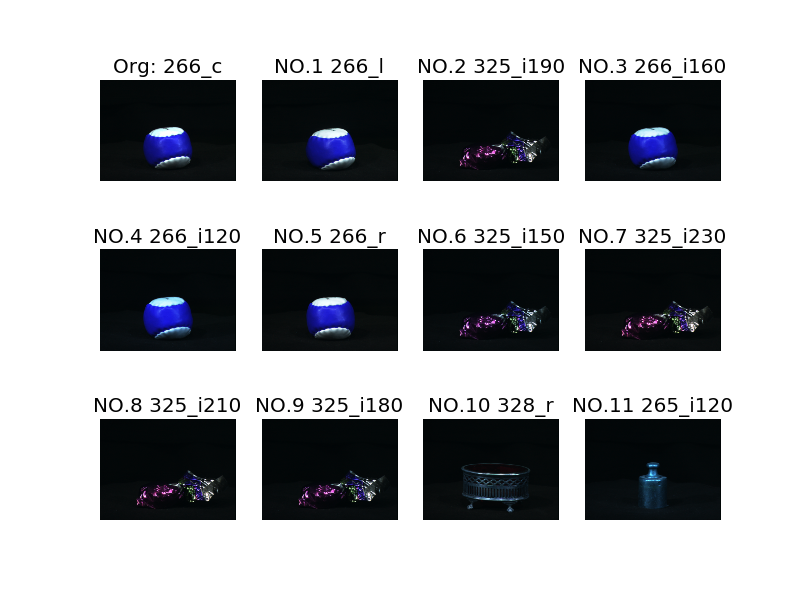
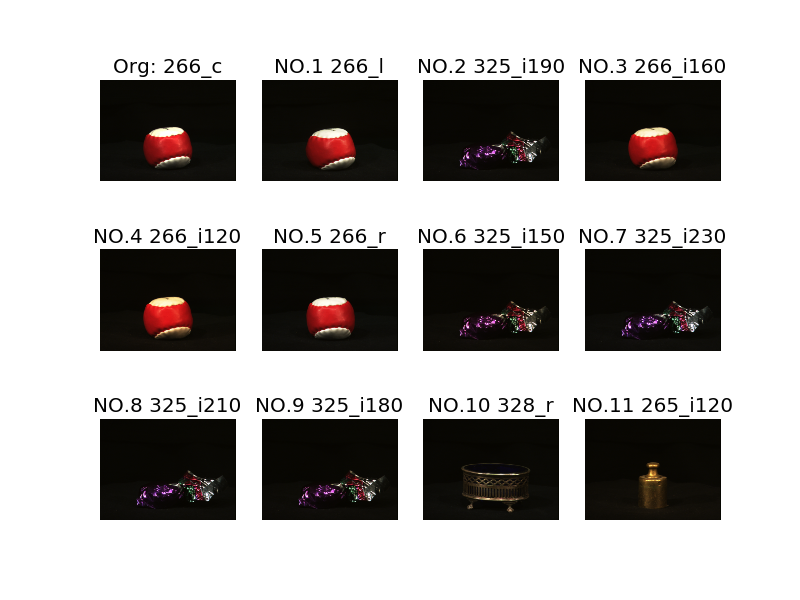
add commentaire and result image

diff --git a/utils.py b/utils.py
@@ -23,7 +23,7 @@ def getImageListFromDir(img_dir, filetype='png'):
     :return: list of images, list
     """
     img_dir = img_dir + '/*/*/' + '*.' + filetype
-    l = sorted(glob.glob(img_dir))  # ./merged_train/999/rotation/999_r.png
+    l = sorted(glob.glob(img_dir))  
     return l
 
 
@@ -35,7 +35,7 @@ def getHistListFromDir(img_dir):
     """
     filetype = 'npy'
     img_dir = img_dir + '/*.' + filetype
-    l = sorted(glob.glob(img_dir))  # ./merged_train/999/rotation/999_r.png
+    l = sorted(glob.glob(img_dir))
     return l
 
 
@@ -49,7 +49,7 @@ def img_generator(img_list):
     while len(img_list) > 0:
         f1 = img_list.pop(0)
         print "read img: ", f1.split('/')[-1]
-        img = cv2.imread(f1, 0) # 0 is needed for brief discriptor
+        img = cv2.imread(f1, 0) 
         yield (img, f1.split('/')[-1])
 
 
@@ -102,18 +102,13 @@ def SIFT_descriptor_generator(data, nfeatures):
     :param feature_point_quantity: MAX feature point quantity
     :return: keypoint_list, descriptor_list
     """
-    """
-    gray = cv2.cvtColor(data, cv2.COLOR_BGR2GRAY)
-
-    gray = np.float32(gray)
-    dst = cv2.cornerHarris(gray, 2, 3, 0.04)
-    
-    """
+    # Initiate SIFT detector
     sift = cv2.xfeatures2d.SIFT_create(nfeatures=nfeatures)
+    
+    # compute the descriptors with SIFT
     kps, descs = sift.detectAndCompute(data,None)
     if descs is not None:
         pass
-        #print "des shape", descs.shape
     return kps, descs
 
 # generator descriptors
@@ -131,17 +126,15 @@ def generator_descriptor(fileaddr, save_addr, nfeatures, desp_type):
         print 'create ' + save_addr
     if fileaddr[-1] != '/':
         fileaddr += '/'
-    # fileList = os.listdir(fileaddr)
+
     fileList = glob.glob(fileaddr + "*/*/*.png")
-    #print fileList
     for file in fileList:
         if '.png' in file:
             print file
             filename_des = file.split('/')[-1].split('.')[0]
             data = cv2.imread(file, 0)
-
-            # todo: add new detectors here !
-
+            
+            # choose descriptor algo
             if desp_type == "orb":
                 kp, des = orb_descriptor_generator(data, nfeatures)
 
@@ -164,10 +157,8 @@ def generator_descriptor(fileaddr, save_addr, nfeatures, desp_type):
                 print 'create ' + subdir_addr
             # creat file to store descriptor
             np.save(subdir_addr + '/' + filename_des + '_' + desp_type, des)
-            # np.save(save_addr+'/'+filename_des+'_kp', kp)
 
-
-# generator hists (global descriptors) from data (local descriptors or image)
+# generator histogram (global descriptors) from data (local descriptors or image)
 def generateHist(model, data, data_type, nfeatures, decpt_type):
     """
     :param model: k-means model trained by descriptors in database.
@@ -207,9 +198,6 @@ def generateHist(model, data, data_type, nfeatures, decpt_type):
         if des is None:  # if orb cannot get any keypoints
             return res
         des = np.asarray(des, dtype=np.float32)
-        #des_float = []
-        #for i in range(len(des)):  # convert des from int to float to avoid type warning
-        #    des_float.append(map(float, des[i]))
         label = model.predict(des)
         for value in label:
             res[0, value] += 1.0
@@ -236,14 +224,12 @@ def searchFromBase(base_dir, target, model, nfeatures, descriptor_type, mode, cl
         imgs_addr = getImageListFromDir(base_dir)
     dist = {}
     target_hist = generateHist(model, target, 'image', nfeatures, descriptor_type).astype(np.float32)
-    # print np.sum(target_hist)
     
     # calculate distance between target hist and base hists
     for idx, img_addr in enumerate(imgs_addr):
         img_gs = []
         hist = []
         if has_hist == False:
-            #print img_addr
             img_gs = cv2.imread(img_addr, '0')
             hist = generateHist(model, img_gs, 'image', descriptor_type)
         else:
@@ -254,19 +240,23 @@ def searchFromBase(base_dir, target, model, nfeatures, descriptor_type, mode, cl
     sorted_d = OrderedDict(sorted(dist.items(), key=lambda x: x[1]))
     dictlist = []
     for key, value in sorted_d.items():
-        temp = [key, value] # [index, distance]
+        temp = [key, value] # correspond to [index, distance]
         class_actual = imgs_addr[key].split('/')[-1].split('_')[0]
         if mode != 1:
             if class_actual == str(class_id):
                 dictlist.append(temp)
                 filename = imgs_addr[key].split('/')[-1]
-                #print filename,value
         else:
             dictlist.append(temp)
     return dictlist, imgs_addr
 
 
 def get_class_image_list(target_dir, class_name):
+    """
+    :param target_dir: address to search image
+    :param class_name: target class name image
+    :return: a list of image addr of the same class
+    """    
     if target_dir[-1] != '/':
         target_dir += '/'
     l = glob.glob(target_dir + class_name + '/*/*')
@@ -274,6 +264,14 @@ def get_class_image_list(target_dir, class_name):
 
 
 def generate_random_image_list(image_list, class_name, class_start, class_num, num):
+    """
+    :param target_dir: address to search image
+    :param class_name: target class name image
+    :param class_start: class of image in the test set start from (ex. 251)
+    :param class_num: quantity of class in the test set (ex. 50)
+    :param num: the quantity of the image in the output list(ex. 5)
+    :return: a list of image addr of the randomly different classes
+    """    
     class_name = str(class_name)
     image_list_temp = image_list[:]  # to store different image classes
     same_class_image_count = 0
@@ -299,7 +297,8 @@ def generate_random_image_list(image_list, class_name, class_start, class_num, n
     for item in rand_file_num_list:
         rand_image_list.append(image_list_temp[int(item) - class_start])    
     return rand_image_list, same_class_image_count
-
+    
+# init the csv file to record the score of the test images
 def csv_init(csv_file_path, kmeans, nfeatures, class_name, class_width, descriptor_type):
     csv_file_name = csv_file_path + '/kmeans_' + str(kmeans.get_params()['n_clusters']) + '_nf_' + str(nfeatures) + descriptor_type + '_class_' + class_name + '.csv'
     if os.path.exists(csv_file_path) == False:
@@ -312,11 +311,12 @@ def csv_init(csv_file_path, kmeans, nfeatures, class_name, class_width, descript
     writer.writerow(file_header)
     return csvfile, writer
 
-
+# deinit the csv file
 def csv_deinit(csvfile, writer, score_global):
     writer.writerow(['Conclusion'] + score_global[:-1] + ["-"] + [score_global[-1]])
     csvfile.close()    
 
+ # generate Prediction/Recall image
 def pr_image_generate(pr_list,descriptor_type,kmeans, nfeatures):
     """
     :param pr_list: a list of lists (filename, label, score)
@@ -374,9 +374,11 @@ def pr_csv_generation(target_dir, sub_hist_addr, kmeans, nfeatures, descriptor_t
 
     for class_name in class_list: # iteration for each class
         pr_list = []
-        class_image_list = get_class_image_list(target_dir, class_name)  # positive examples
+        
+        # examples from the same class
+        class_image_list = get_class_image_list(target_dir, class_name)  
 
-        # negative examples
+        # random examples from different classes
         random_image_list, class_width = generate_random_image_list(image_list, class_name, class_start, class_num, opposite_image_num)
         class_image_list.extend(random_image_list) # joint two lists together
 
@@ -395,8 +397,12 @@ def pr_csv_generation(target_dir, sub_hist_addr, kmeans, nfeatures, descriptor_t
                 Truth = 1
             else:
                 Truth = 0
+                
+            # find the nearest images from the image base
             results, imgs_list = searchFromBase(sub_hist_addr, target, kmeans, nfeatures, descriptor_type, mode, class_name, has_hist=True)
             count = 0
+            
+            # distrubute a score to each test image according to the its distance to the org image 
             for key, value in results:
                 score = 1.0 / (value+0.001)
                 filename = imgs_list[key].split('/')[-1]
@@ -412,4 +418,6 @@ def pr_csv_generation(target_dir, sub_hist_addr, kmeans, nfeatures, descriptor_t
             score_global[-1] += score_total
         score_global_str = map(str, score_global)
         csv_deinit(csvfile, writer, score_global_str)
+        
+        # generate Prediction/Recall image by using the score
         pr_image_generate(pr_list, descriptor_type, kmeans, nfeatures)

diff --git a/test.py b/test.py
@@ -14,16 +14,15 @@ import shutil
 def main(train_addr, mode, descriptor_type, nfeatures, class_id, target_addr):
     # definitions #
     model_dir = "./save_model/cv2_kmeans_mini_50_nf_100orb.pkl" # pretrained kmeans model for Brief 100 cluster
-    #target_addr = "./min_merged_test/335/rotation/335_r.png" # target image to search
-    #target_addr = "./min_merged_test/335/luminence/335_i170.png" # target image to search
     target_dir = "./min_merged_test/" # target dir to search
     hist_addr = './hists/'+descriptor_type # generated histograms for the dataset
     
-    # search similar images from base #
-    kmeans = joblib.load(model_dir) # load pre-trained k-means model #
+
+    # load pre-trained k-means model #
+    kmeans = joblib.load(model_dir) 
     print ('kmeans parameters', kmeans.get_params())    
 
-    # if hist_addr does not exist, generate hists for the data set #
+    # if hist_addr does not exist, generate hists for the data set
     if os.path.exists(hist_addr) == False:
         print "Creating Histograms..."
         os.makedirs(hist_addr)
@@ -48,18 +47,15 @@ def main(train_addr, mode, descriptor_type, nfeatures, class_id, target_addr):
             target = cv2.imread(target_addr, 0) 
         else:   
             target = cv2.imread(target_addr)
+        # search similar images from base and get the ranking results  
         results, imgs_list = searchFromBase(hist_addr, target, kmeans, nfeatures, descriptor_type, mode, class_id, has_hist)
-        '''count = 1
-        for key, value in results:
-            filename = imgs_list[key].split('/')[-1]
-            print ('NO. ' + str(count) +' is: ' + filename + ' distance : ' + str(value))
-            count += 1
-            if count > 20:
-                break'''
+        
+        # draw the top ranking results in a 3x4 figure
         ax = [0] * 12
         f,((ax[0],ax[1], ax[2], ax[3]),(ax[4],ax[5], ax[6], ax[7]), (ax[8],ax[9], ax[10], ax[11])) = plt.subplots(3,4)
         original = cv2.imread(target_addr) 
         ax[0].set_title("Org: " + target_addr.split('/')[-1].split('.')[0])
+        original = cv2.cvtColor(original,cv2.COLOR_BGR2RGB)
         ax[0].imshow(original)
         ax[0].set_axis_off()
         count = 1                
@@ -80,19 +76,20 @@ def main(train_addr, mode, descriptor_type, nfeatures, class_id, target_addr):
                 ranking_image = cv2.imread(imageaddress)
                 ax[count].set_title("NO."+ str(count) + " " + imagename.split('.')[0])
                 ax[count].set_xlabel(" Dist: " + str(value))
+                ranking_image = cv2.cvtColor(ranking_image,cv2.COLOR_BGR2RGB)
                 ax[count].imshow(ranking_image)
                 ax[count].set_axis_off()           
             if count > 20:
                 break
             count += 1
             
-        #plt.show()
         rst_dir = "./image_result/"
         if os.path.exists(rst_dir) == False:
             os.makedirs(rst_dir)         
         plt.savefig(rst_dir + target_addr.split('/')[-1]) 
                                   
-    elif (mode == 2): # try to find self rotated image from the database; rank the result; store in a csv file
+    elif (mode == 2): 
+        # try to find similar from the database; rank the result; calculat score; store in a csv file
         image_list = getImageListFromDir(target_dir)
         i = 0
         
@@ -147,7 +144,7 @@ def main(train_addr, mode, descriptor_type, nfeatures, class_id, target_addr):
     elif mode == 4:
         pr_csv_generation(target_dir, hist_addr, kmeans, nfeatures, descriptor_type, mode, class_id)
           
-    # mode error #
+    # mode no exist #
     else:
         print "mode error should be [1~5]"
 

diff --git a/visualWordsGen.py b/visualWordsGen.py
@@ -12,12 +12,11 @@ import cv2
 
 
 def main(train_addr, desptype, nfeatures, n_clusters):
-    # definitions #
-    descpts_addr = "" # path where are saved the descriptors, If descripts_addr = '', create them below
+
+    descpts_addr = "" # path where are saved the descriptors
     
     # read or generate local descriptors from the base (saved as numpy array). #
-    # if descriptors not exist, create them here !
-
+    # if descriptors not exist, create them here
     if descpts_addr == '':
         descpts_addr = "./dscpt_32bits_" + desptype
         if os.path.exists(descpts_addr) == False:
@@ -30,9 +29,10 @@ def main(train_addr, desptype, nfeatures, n_clusters):
 
     # each npy file has all local descriptors for an image
     descpts_list = glob.glob(descpts_addr)
+    
     # generate train data for k means clustering of shape [num of descriptors, dimension of descriptor]
     train_data = None
-    files_no_despt = []  # images have no key points that can be detected
+    files_no_despt = []  # image list that have no key points that can be detected(too dark)
     for strr in descpts_list:
         if strr.find('kp') == -1: # not keypoints array
             if np.load(strr).shape == ():
@@ -59,6 +59,7 @@ def main(train_addr, desptype, nfeatures, n_clusters):
         prefix = 'cv3'
     else:
         prefix = 'cv2'
+        
     # save k-means model for further use
     joblib.dump(kmeans, './save_model/' + prefix + '_kmeans_mini_' + str(n_clusters) + '_nf_' + str(nfeatures) + desptype + '.pkl')
 
@@ -79,8 +80,8 @@ if __name__ == "__main__":
     
     train_addr = args.addr # './min_merged_train/' # path where train images lie
     desptype= args.d #'orb'  # type of descriptors to be generated
-    nfeatures = args.n # 200 # Max quantity of kp, 0 as invalid for brief
-    n_clusters = args.c # 200 # Max quantity of kp, 0 as invalid for brief
+    nfeatures = args.n # Max quantity of kp
+    n_clusters = args.c # Quantity of cluste
     print "train_addr : %s, desptype : %s, nfeatures : %d, nclusters : %d " % (train_addr, desptype, nfeatures, n_clusters)
     main(train_addr, desptype, nfeatures, n_clusters)
 
